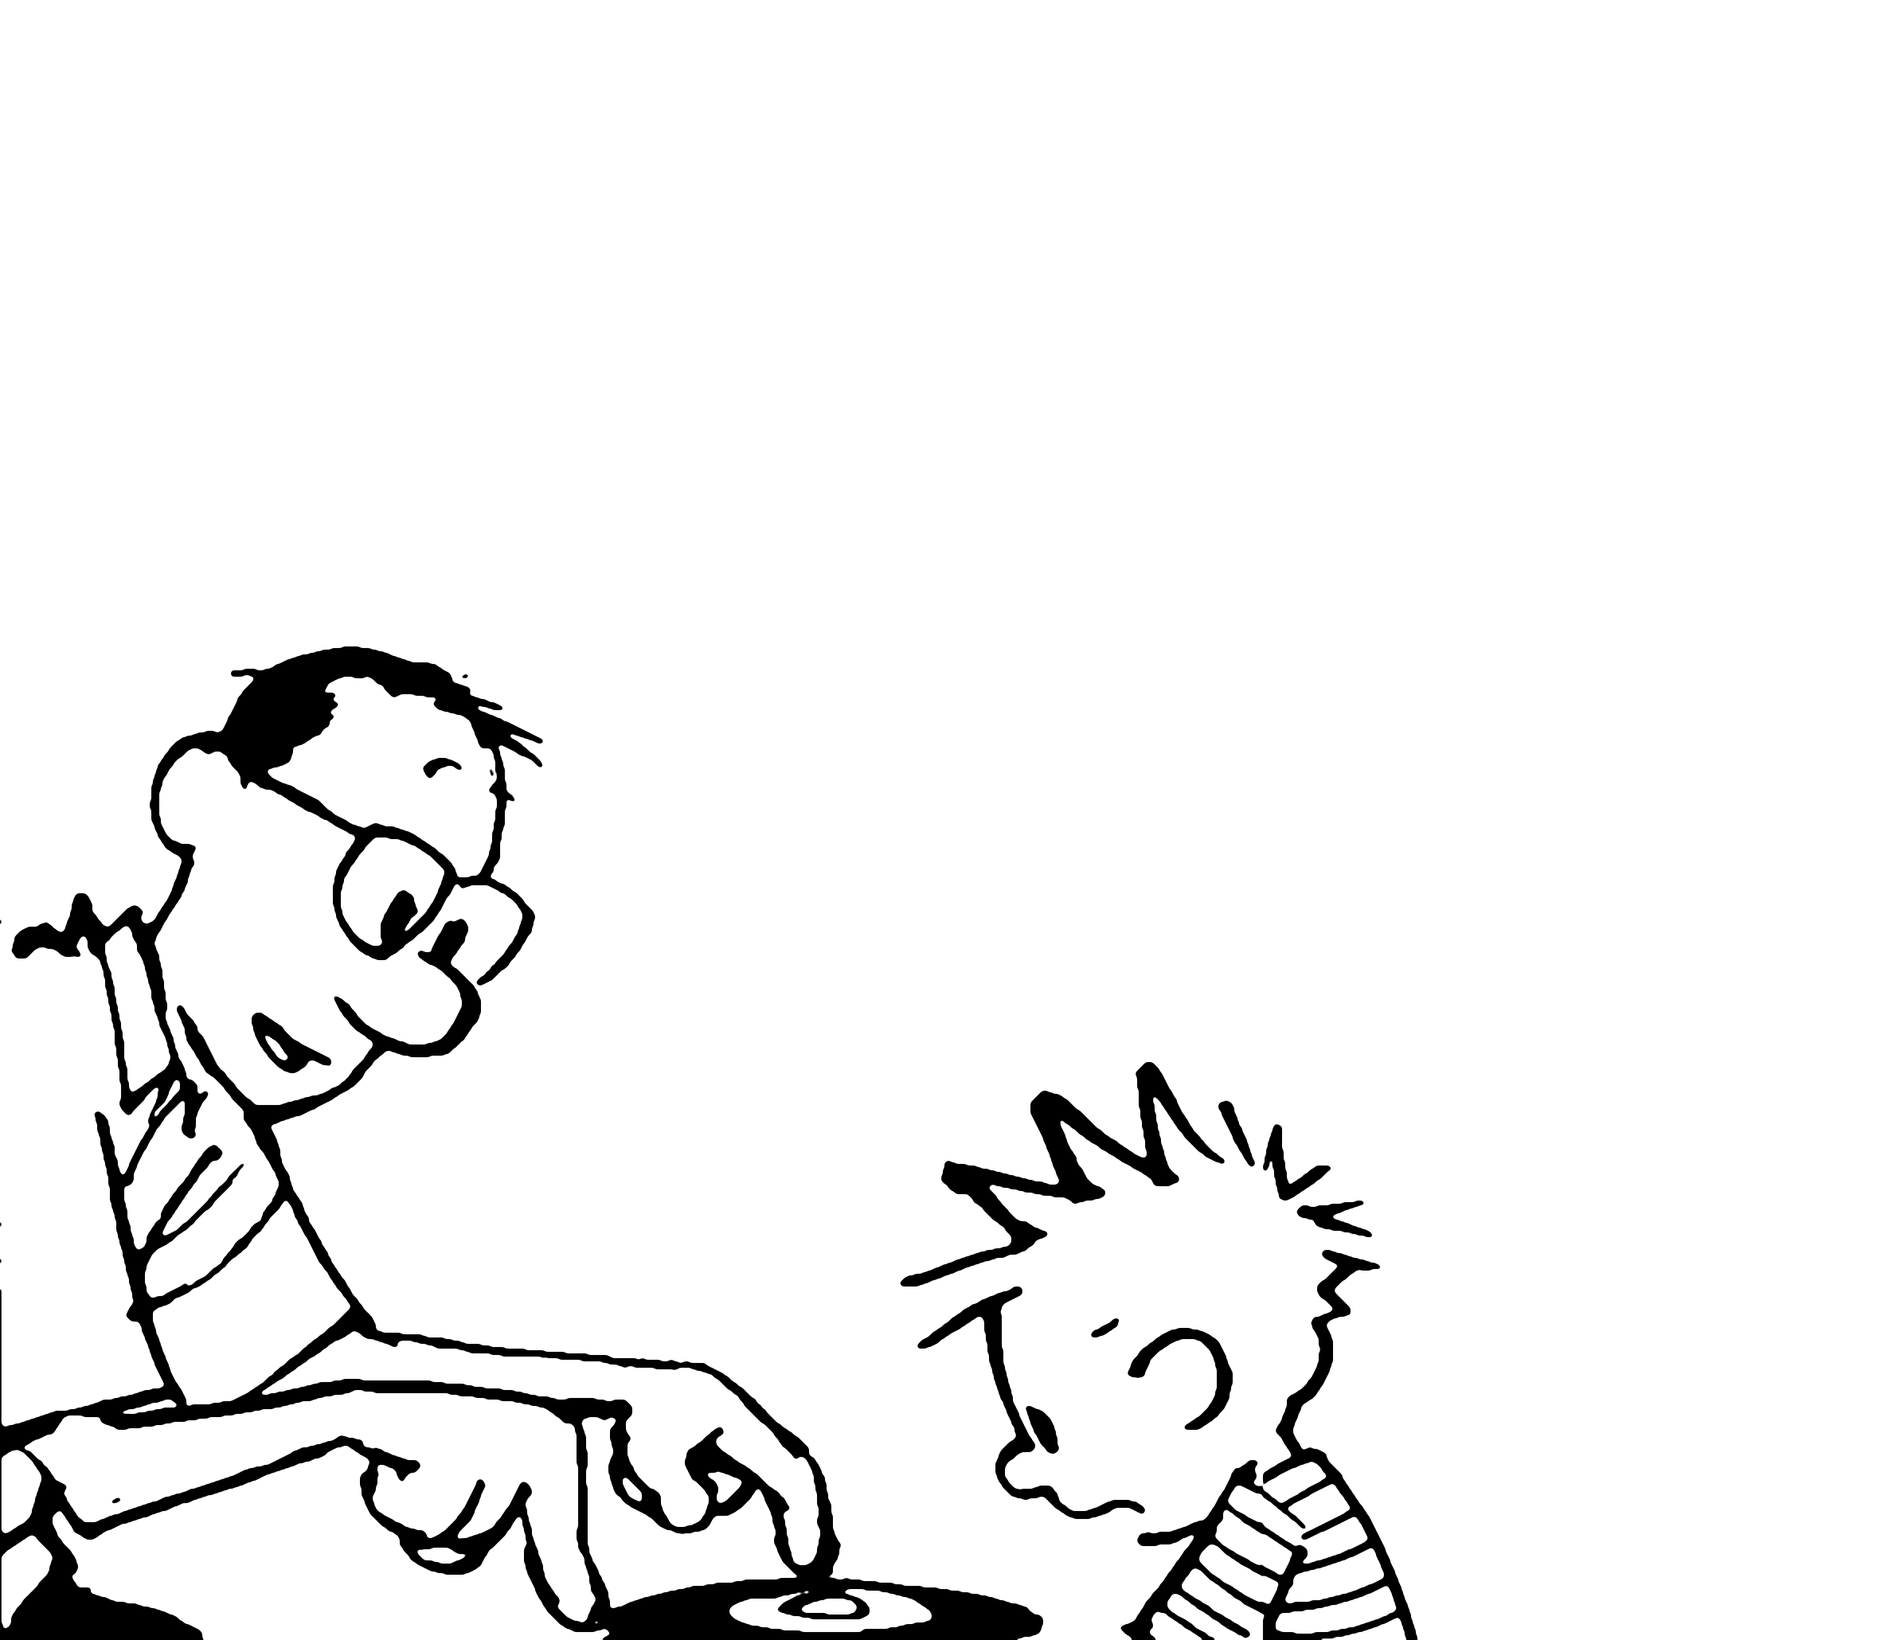
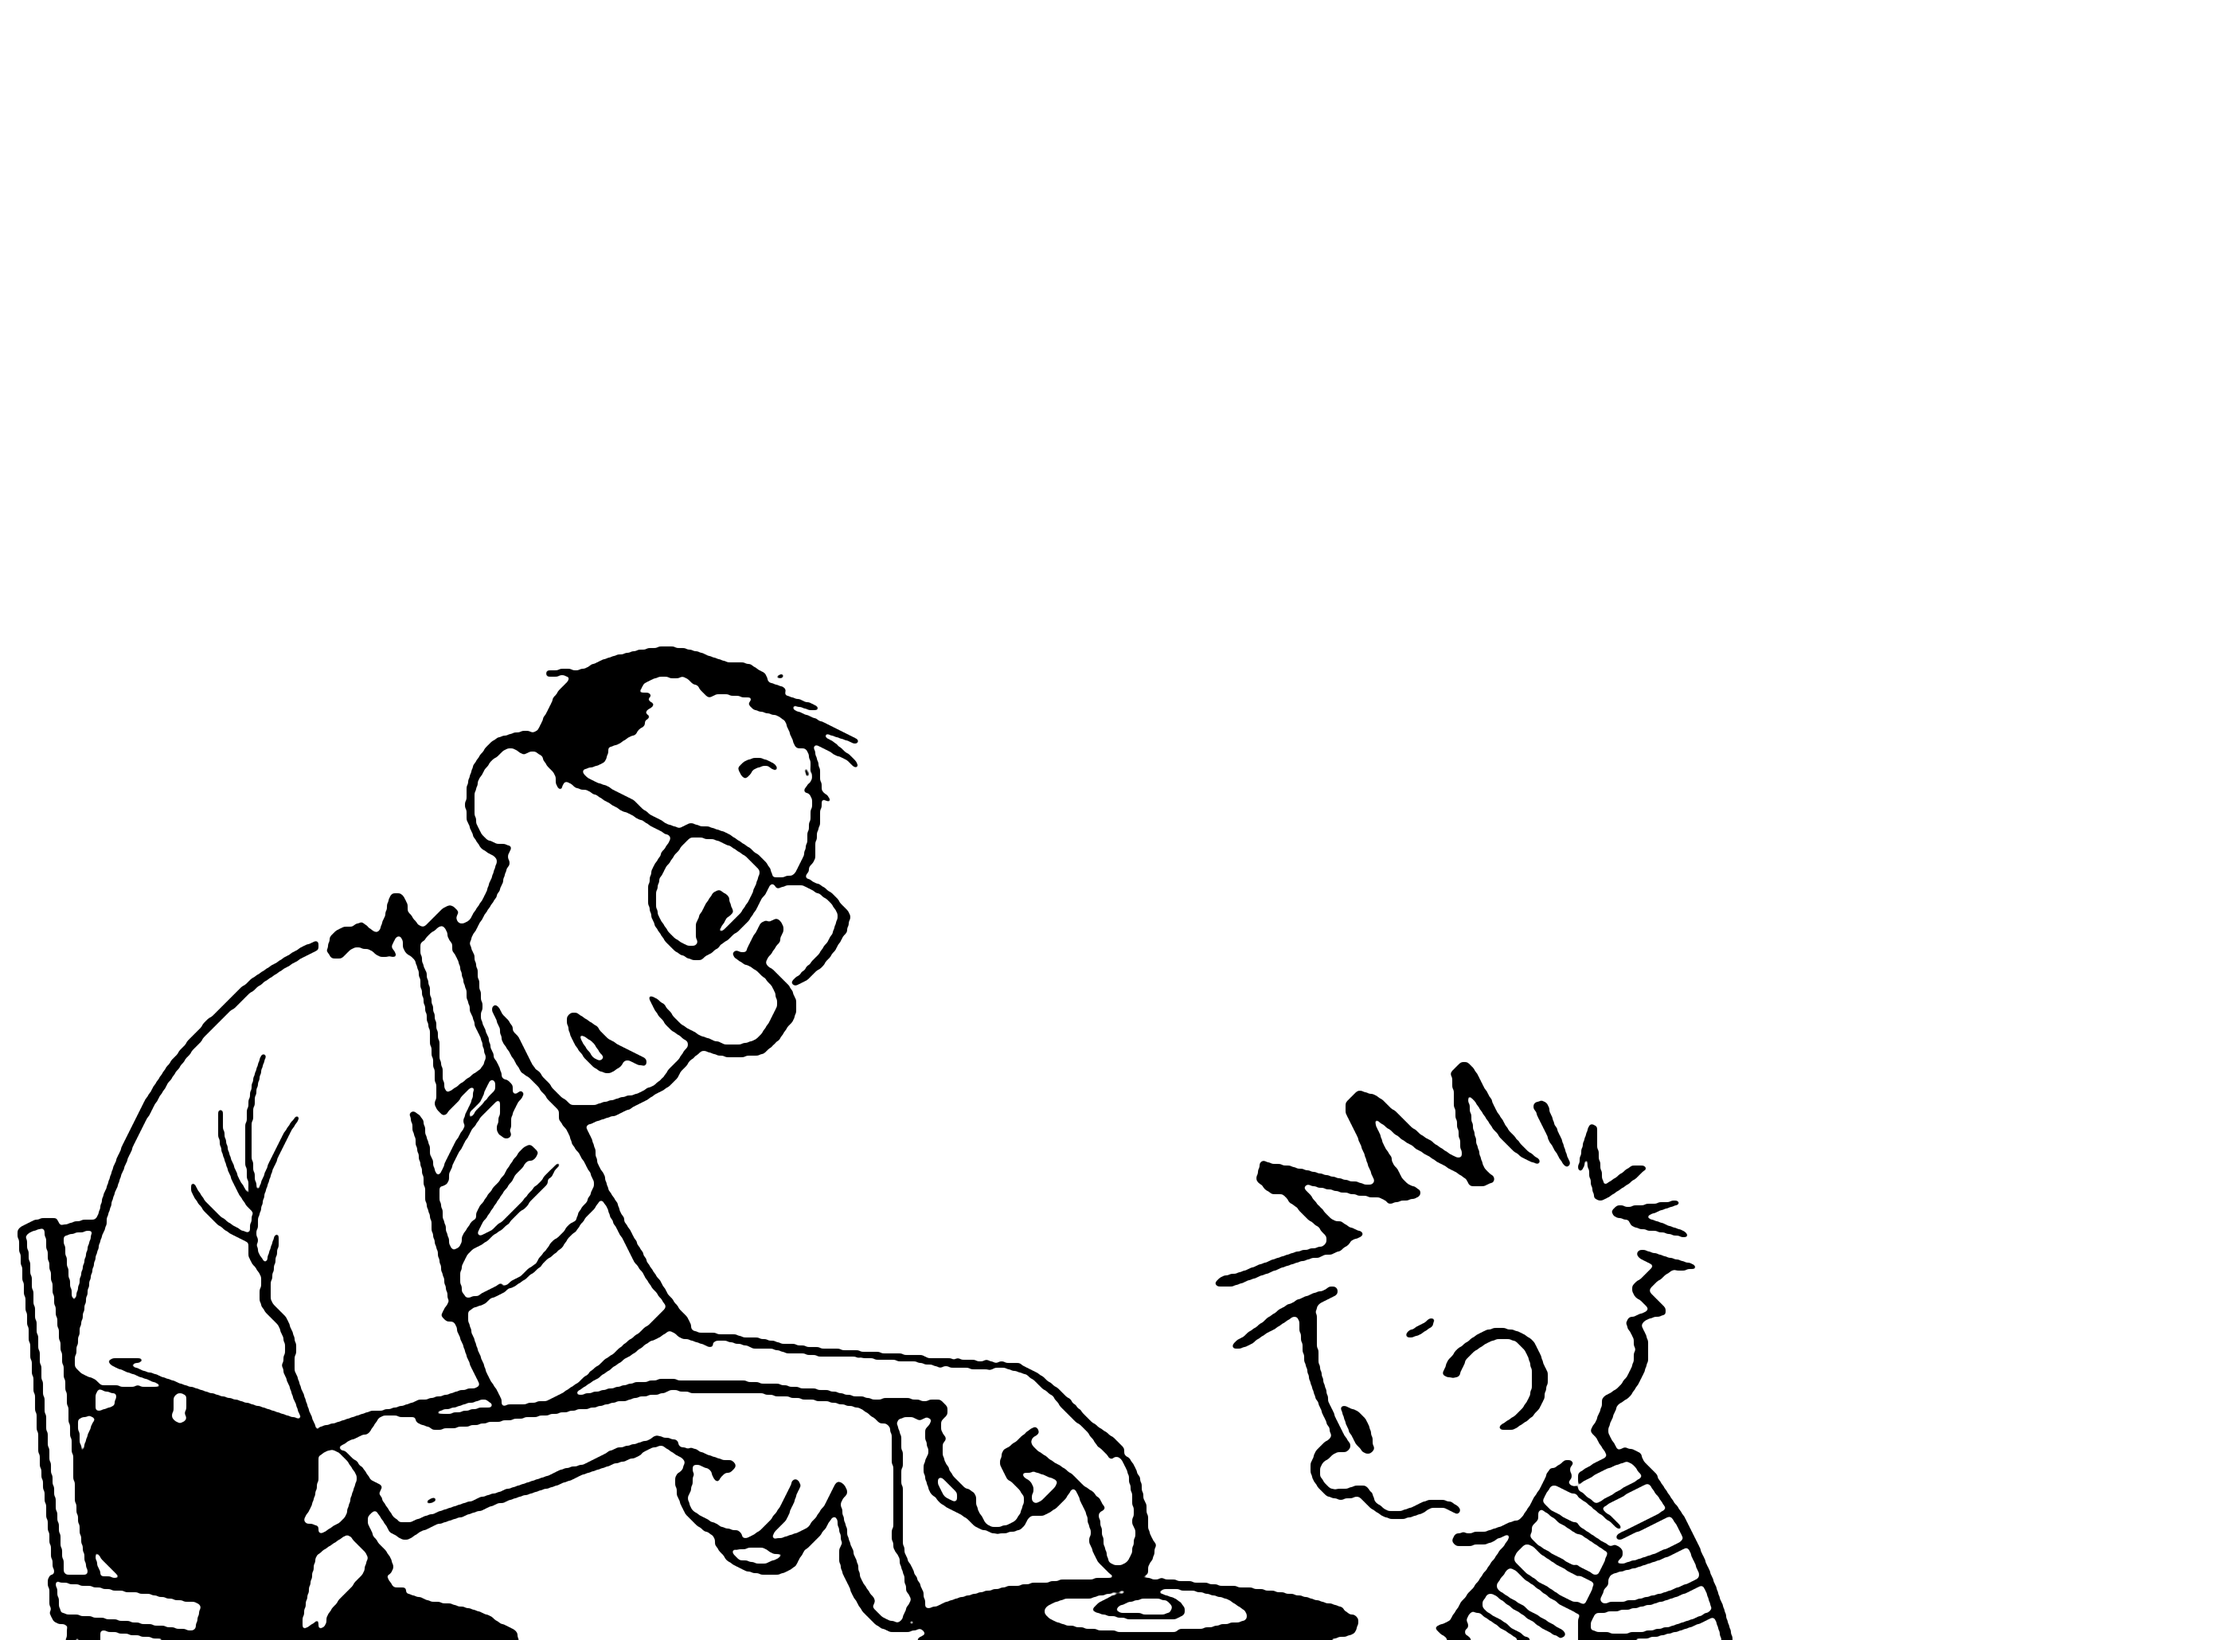
Finish Dad off on the left of panels 2 and 3
Codex drew the rest of Dad for when the panels widen: his back, chair and
trousers in panel 2 (tools/extensions/panel2-left.png) and his shoulder
and back in panel 3 (tools/extensions/panel3-left.png). Their crops lose
the slivers of border and edge line at the left.

Changed region(s): [[0.0, 0.3728, 0.8064, 1.0]]

diff --git a/tools/build_assets.py b/tools/build_assets.py
@@ -54,10 +54,11 @@ PANELS = [
         "speech": "balloon",
     },
     {
-        "box": (924, 1877, 1717, 2907),
-        # Calvin runs off the right edge; the rest of him is drawn in
-        # tools/extensions/panel2-right.png.
-        "extensions": {"right": "panel2-right.png"},
+        "box": (926, 1877, 1717, 2907),
+        # Dad runs off the left edge and Calvin off the right; the rest of
+        # them is drawn in tools/extensions/panel2-{left,right}.png.
+        "extend": {"left": EXTEND // 2, "right": EXTEND},
+        "extensions": {"left": "panel2-left.png", "right": "panel2-right.png"},
         # Both balloons and their lettering, steering around Dad's head and
         # Calvin's hair.
         "erase": [[(924, 1877), (1720, 1877), (1720, 2545), (1612, 2545),
@@ -83,7 +84,11 @@ PANELS = [
         "calvin_column": (1330, 1630, 2490),
     },
     {
-        "box": (1755, 1877, 2550, 2907),
+        "box": (1763, 1877, 2550, 2907),
+        # Dad's shoulder runs off the left edge; the rest of it is drawn in
+        # tools/extensions/panel3-left.png.
+        "extend": {"left": EXTEND // 2, "right": EXTEND},
+        "extensions": {"left": "panel3-left.png"},
         "erase": [[(1755, 1877), (2550, 1877), (2550, 2620), (2220, 2620),
                    (2220, 2460), (1755, 2460)]],
         "speakers": {"dad": (2010, 2770)},

diff --git a/README.md b/README.md
@@ -37,9 +37,11 @@ Everything is static. On GitHub, enable Pages for the repository with
   scan's low resolution background layer, so they're merged in from there.
   Panels can widen to any width, so wherever the art runs off a panel's
   edge it is finished off: Dad's back and trailing leg in panel 1
-  (`tools/extensions/panel1-left.png`), the rest of Calvin in panel 2
-  (`tools/extensions/panel2-right.png`) and the far end of his bed in panel
-  4 (`tools/extensions/panel4-left.png`), drawn by Codex's image generation
+  (`tools/extensions/panel1-left.png`), Dad on his chair and the rest of
+  Calvin in panel 2 (`tools/extensions/panel2-{left,right}.png`), Dad's
+  shoulder in panel 3 (`tools/extensions/panel3-left.png`) and the far end
+  of Calvin's bed in panel 4 (`tools/extensions/panel4-left.png`), drawn by
+  Codex's image generation
   from the panel and thresholded to the scan's 1-bit ink so that they're
   smoothed like the rest. Beyond that the panels are plain background, as
   far as they need to go; panel 4's bed stays in the middle. Watterson's
